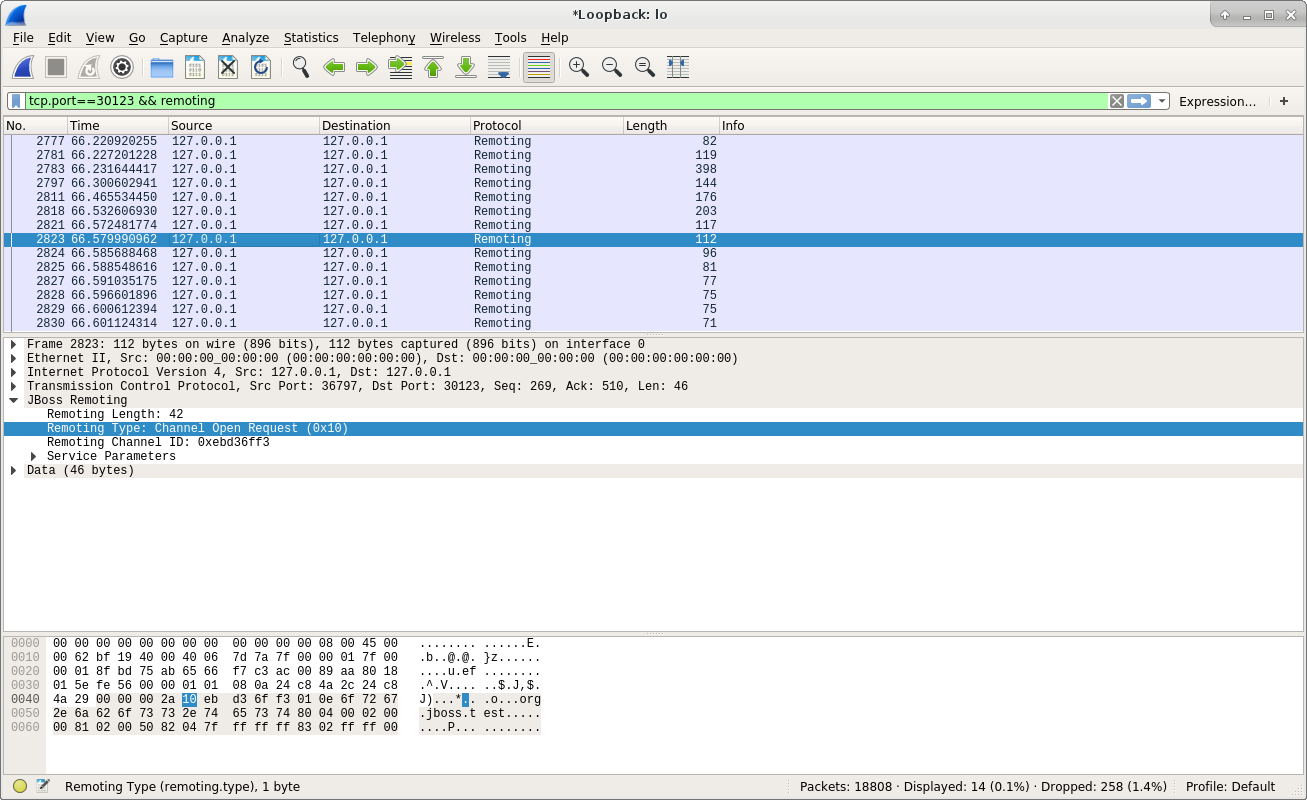
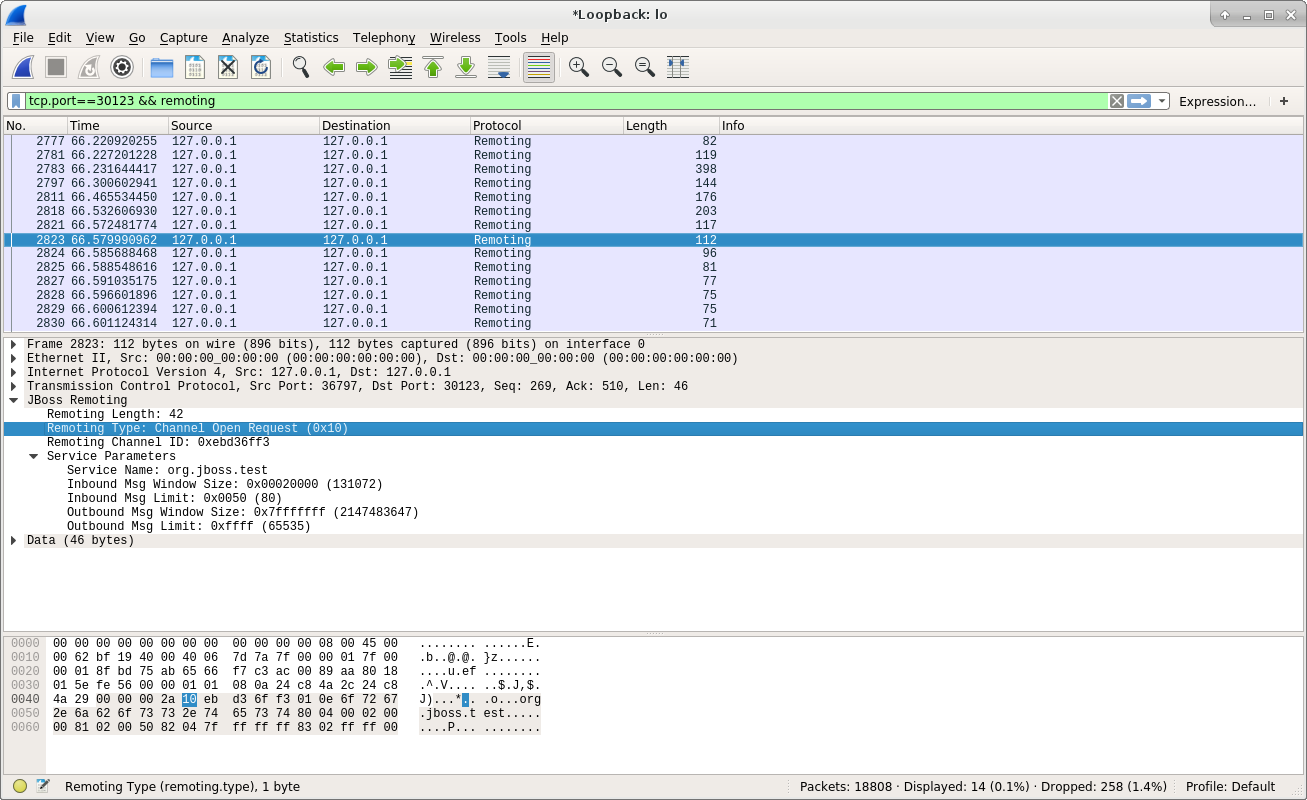
.

diff --git a/_posts/2017-05-30-remoting-continued.md b/_posts/2017-05-30-remoting-continued.md
@@ -55,11 +55,11 @@ In addition, we can see the `Remoting Type` of this packet is `Greeting`. From `
 
 ```java
 /**
-     * Sent by server only.
-     * byte 0: GREETING
-     * byte 1..n: greeting message body
-     */
-    static final byte GREETING = 0;
+ * Sent by server only.
+ * byte 0: GREETING
+ * byte 1..n: greeting message body
+ */
+static final byte GREETING = 0;
 ```
 
 From the above code, we can understand that the greeting message is sent from server to client as the beginning of the communication process. In addition, from the above screenshot, we can see the `Greeting` message contains the `Greeting Parametmers`. Under `Greeting Parametmers`, it contains one item, which is `Server Name`, and its value is `localhost`. This information will be passed to client side for processing. 
@@ -71,43 +71,146 @@ Now let's see what the client responded to the server:
 From the above screenshot, we can see the client responded to server with a `Capabilities` typed message. Here is the document in `Protocol` class for the type:
 
 ```java
-    /**
-     * Sent by client then server.
-     * byte 0: CAPABILITIES
-     * byte 1..n: capabilities summary
-     */
-    static final byte CAPABILITIES = 1;
+/**
+ * Sent by client then server.
+ * byte 0: CAPABILITIES
+ * byte 1..n: capabilities summary
+ */
+static final byte CAPABILITIES = 1;
 ```
 
 From the above code and the above screenshot, we can understand the `capabilities` message contains the information of the communication. From the above screenshot we can see the relative information of this communication is contained in the `Capability Parameters`.
 
-There are multiple fields in `Capability Parameters`. They are: `Protocol Version`, `Endpoint Name`, `Supports Msg Close Protocol`, `Impl Version`, `Inbound Channel`, `Outbound Channel`. 
+There are multiple fields in `Capability Parameters`. They are: `Protocol Version`, `Endpoint Name`, `Supports Msg Close Protocol`, `Impl Version`, `Inbound Channel`, `Outbound Channel`. The information will be used for negotiation between server and client to determine the communication details.
 
-
-
+Now let's see how does the server responded to the `capabilities` request from the client. Here is the screenshot: 
 
 ![/assets/remoting/lo_003.png](/assets/remoting/lo_003.png)
 
+From the above screenshot, we can see the server returns many information back to the client, which includes the `Protocol Version` to be used, the `Endpoint Name` it provides, and the encryption algorithms it supports. If client accepts the server, it can start the authentication process by sending the username and password with the proper encryption algorithm. Here is the screenshot that client sent the authentication request to the server:  
+
 ![/assets/remoting/lo_004.png](/assets/remoting/lo_004.png)
+
+From the above screenshot, we can see that the client sent `Auth Request` message to the server, and the encryption method it used is `SCRAM-SHA-256`. We can't see the username and password in the data packet because it's already encrypted. Let's see how does server responded to `Auth Request`: 
 
 ![/assets/remoting/lo_005.png](/assets/remoting/lo_005.png)
 
+From the above screenshot we can see the server sent back an `Auth Challenge` message to client. We don't have to understand the detail of `Auth Challenge` message for now, and we can think it is an additional step adopted by the server to verify the client. Let's see how does client respond to it: 
+
 ![/assets/remoting/lo_006.png](/assets/remoting/lo_006.png)
+
+We can see the client replied an `Auth Response` message to the server. And server will verify this message. If everything goes fine, it will reply an `Auth Complete` message to client: 
 
 ![/assets/remoting/lo_007.png](/assets/remoting/lo_007.png)
 
+The above screenshot shows the authentication process is passed, and then client will start the real work with server. Here is the screenshot:
+
 ![/assets/remoting/lo_008.png](/assets/remoting/lo_008.png)
+
+From the above screenshot, we can see the client sent an `Channel Open Request` to the server. Here is the document for the `Channel Open Request` in `Protocol` class:
+
+```java
+// Messages for opening channels
+
+// Channel are bidirectional thus each side's ID namespace is intermingled
+// if local in origin, read 0 MSb, write 1 MSb
+// if remote in origin, read 1 MSb, write 0 MSb
+
+/**
+ * byte 0: CHANNEL_OPEN_REQUEST
+ * byte 1..4: new channel ID (MSb = 1)
+ * byte n+1..m: requested parameters (see Channel Open Parameters below)
+ *    {@link #O_SERVICE_NAME} is required
+ *    inbound = responder->requester
+ *    outbound = requester->responder
+ */
+static final byte CHANNEL_OPEN_REQUEST = 0x10;
+```
+
+From the above code, we can understand that the important information encapsulated in `Channel Open Request` is the `Remoting Channel ID`, and we can find this information in above screenshot. In addition, the message contains the `Service Name` the client needs, and together with some other parameters.
+
+Let's see how does the server responded to the client of the request: 
 
 ![/assets/remoting/lo_009.png](/assets/remoting/lo_009.png)
 
+From the above screenshot, we can see the server responded an `Channel Open Ack` message to the client. Here is the document of the `Channel Open Ack` in the `Protocol` class:
+
+```java
+/**
+ * byte 0: CHANNEL_OPEN_ACK
+ * byte 1..4: channel ID (MSb = 0)
+ * byte 5..n: agreed parameters (see Channel Open Parameters below)
+ *    inbound = responder->requester
+ *    outbound = requester->responder
+ */
+static final byte CHANNEL_OPEN_ACK = 0x11;
+```
+
+The `Channel Open Ack` message is similar to the `Channel Open Request`, and contains the channel ID used by server to the client.
+
+After the previous step has been done, the client can send the data to server. Here is the screenshot to show the action:
+
 ![/assets/remoting/lo_010.png](/assets/remoting/lo_010.png)
+
+From the above screenshot, we can see the client sends a `Message Data` packet to the server. This is the real data sent by the client. Here is the document of `Message Data` in the `Protocol` class:
+
+```java
+// Messages for handling channel messages
+ // Messages are unidirectional thus each side's ID namespace is distinct
+
+/**
+ * byte 0: MESSAGE_DATA
+ * byte 1..4: channel ID
+ * byte 5..6: message ID
+ * byte 7: flags: - - - - - C N E  C = Cancelled N = New E = EOF
+ * byte 8..n: message content
+ *
+ * Always flows from message sender to message recipient.
+ */
+static final byte MESSAGE_DATA = 0x30;
+```
+
+From the above code, we can understand the JBoss Remoting uses `channel ID` to identify the endpoints, and it uses the `message ID` to identify the messages. After the data is sent to the server side, let's see how does the server responded to the client:
 
 ![/assets/remoting/lo_011.png](/assets/remoting/lo_011.png)
 
+From the above screenshot, we can see the server sent an `Message Async Close` packet back to the client. Here is the document of the `Message Async Close` data:
+
+```java
+* byte 0: MESSAGE_CLOSE
+* byte 1..4: channel ID
+* byte 5..6: message ID
+*
+* Always flows from message recipient to message sender.
+*/
+static final byte MESSAGE_CLOSE = 0x32;
+```
+
+It means the server has received the data sent by the client, and the client side can close its request. Now client can go on sending other requests to the server, or close the connection to the server. In our test case, the client then requested to close the connection with the server. Here is the screenshot of the request:  
+
 ![/assets/remoting/lo_012.png](/assets/remoting/lo_012.png)
+
+From the above screenshot, we can see the client sent a `Channel Shutdown Write` message to the server.
+
+```java
+/**
+ * byte 0: CHANNEL_CLOSE_WRITE
+ * byte 1..4: channel ID
+ *
+ * Sent when channel writes are shut down.
+ */
+static final byte CHANNEL_SHUTDOWN_WRITE = 0x20;
+```
+
+From the above code we can see the client will use the `CHANNEL_SHUTDOWN_WRITE` to tell server that the client request is done and the channel can be closed. Here is the reply from the server:
 
 ![/assets/remoting/lo_013.png](/assets/remoting/lo_013.png)
 
+We can see the server sent a `Channel Shutdown Write` to the client too, but the `channel id` is different. This means both client and server will tell each other that their channel can be closed. Here is the last message sent from the client to the server:
+
 ![/assets/remoting/lo_014.png](/assets/remoting/lo_014.png)
 
+The above screenshot shows the client sent a `Connection Close` message to the server, and the whole communication is over.
+
+In conclusion, we have checked the JBoss Remoting communication process between server and client in this article, and we have checked the detail of the Remoting protocol. We didn't cover all the details of the protocol, but this article is a good beginning for you to dig into the JBoss Remoting code by yourself. 
 
